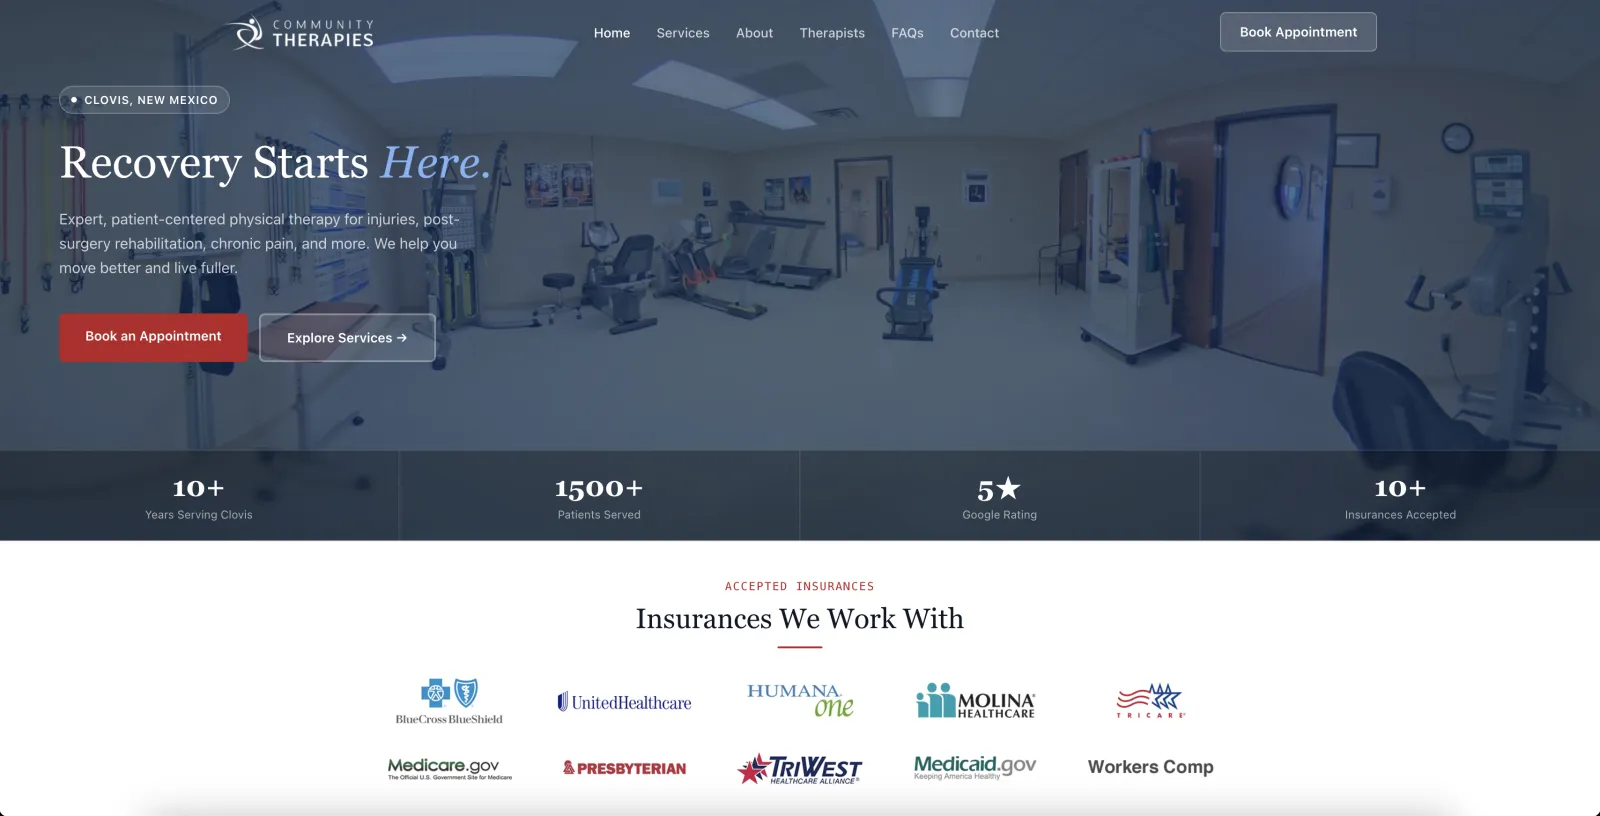
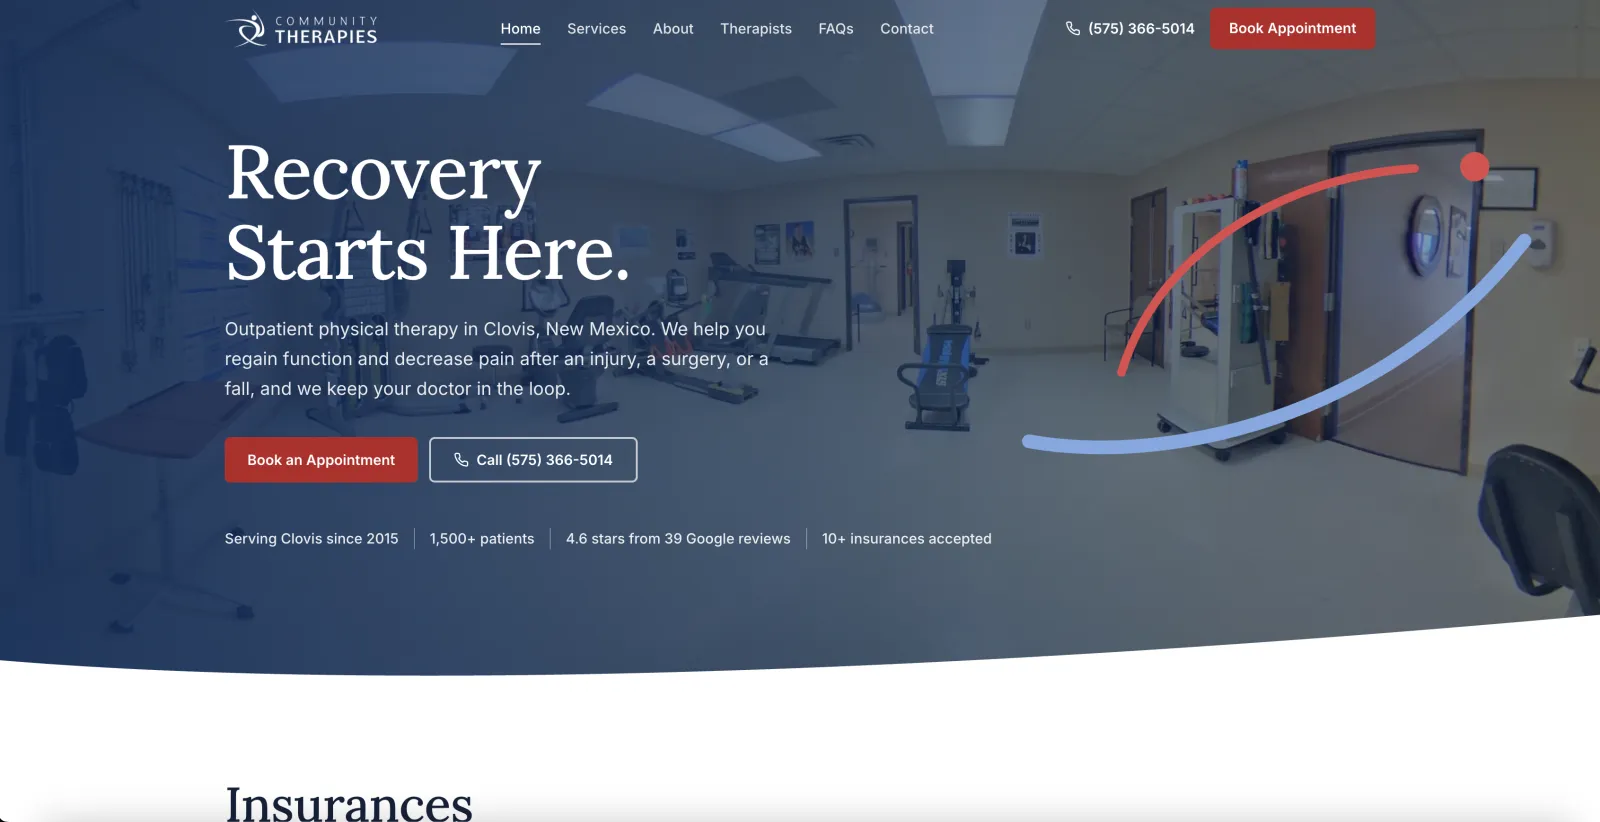
Add Cebu Timepieces and ShineOn, refresh CTherapies

diff --git a/src/constants/projects.ts b/src/constants/projects.ts
@@ -2,6 +2,10 @@ import Aluma from '../assets/builds/aluma-1600.webp';
 import AlumaSm from '../assets/builds/aluma-800.webp';
 import LuluInjects from '../assets/builds/lulu-injects-800.webp';
 import RealAesthetix from '../assets/builds/real-aesthetix-800.webp';
+import CebuTimepieces from '../assets/builds/cebu-timepieces-1600.webp';
+import CebuTimepiecesSm from '../assets/builds/cebu-timepieces-800.webp';
+import ShineOn from '../assets/builds/shineon-1600.webp';
+import ShineOnSm from '../assets/builds/shineon-800.webp';
 import TrimStation from '../assets/builds/trim-station-1600.webp';
 import TrimStationSm from '../assets/builds/trim-station-800.webp';
 import TopFrame from '../assets/builds/top-frame-1600.webp';
@@ -72,6 +76,26 @@ export const PROJECTS: Project[] = [
     ],
   },
   {
+    title: 'Cebu Timepieces',
+    description:
+      'A chat-first watch catalog for Cebu Timepieces, an independent watch dealer in Talisay, Cebu. Stock comes from a Google Sheet the dealer edits, every photo is watermarked as it is served, and each Message button opens Messenger or Instagram with the watch already named.',
+    image: CebuTimepieces,
+    imageSm: CebuTimepiecesSm,
+    ratio: 3380 / 1742,
+    tags: ['Next.js', 'TailwindCSS', 'Google Sheets', 'Sharp'],
+    projectLink: 'https://cebu-timepieces.vercel.app/',
+  },
+  {
+    title: 'ShineOn Car Solutions',
+    description:
+      'A site for ShineOn, a car detailing studio in Cebu City. Pick a vehicle size and services like tint, PPF, coatings or paint correction, and it gives a price range and shop time in about 30 seconds, then opens Messenger with the quote filled in.',
+    image: ShineOn,
+    imageSm: ShineOnSm,
+    ratio: 3382 / 1728,
+    tags: ['Next.js', 'TypeScript', 'Messenger handoff'],
+    projectLink: 'https://shineon-web.vercel.app/',
+  },
+  {
     title: 'Trim Station',
     description:
       'The website for Trim Station, a two-chair barbershop in Cebu City: a price board, barber profiles, a style chart to point at, live open-or-closed hours, a map, and online booking through Setmore.',
@@ -95,13 +119,12 @@ export const PROJECTS: Project[] = [
   {
     title: 'CTherapies',
     description:
-      'A website for a therapy services company, with home, about, services, and contact pages.',
+      'A rebuild of the site for Community Therapies, an outpatient physical therapy clinic in Clovis, New Mexico. Patients can see the services and the insurance plans the clinic takes, meet the therapists, read the FAQs, and book online, call, or send a message.',
     image: CTherapies,
     imageSm: CTherapiesSm,
-    ratio: 3416 / 1742,
+    ratio: 3382 / 1736,
     tags: ['React', 'Next.js', 'TailwindCSS'],
     projectLink: 'http://ctherapies.vercel.app/',
-    githubLink: 'https://github.com/montayrekj/ctherapies',
   },
   {
     title: 'TaraTakbo',

diff --git a/src/components/Builds.tsx b/src/components/Builds.tsx
@@ -22,8 +22,8 @@ function Links({ project }: { project: Project }) {
 }
 
 export default function Builds() {
-  const featured = PROJECTS.slice(0, 5);
-  const gang = PROJECTS.slice(5);
+  const featured = PROJECTS.slice(0, 7);
+  const gang = PROJECTS.slice(7);
 
   return (
     <section className="section builds" id="builds" aria-labelledby="builds-title">
